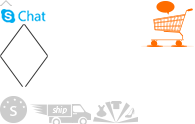
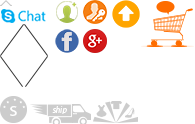
duy

Changed region(s): [[0.2769, 0.0, 0.7385, 0.2419], [0.2769, 0.2177, 0.5538, 0.4355]]

diff --git a/assets/frontend/css/site.css b/assets/frontend/css/site.css
@@ -17,7 +17,7 @@ a:hover,
 a:focus {
     outline: medium none;
     text-decoration: none;
-    color: #333;
+    color: #555;
 }
 /*Header*/
 .container {
@@ -40,15 +40,31 @@ a:focus {
     float: right;
 }
 .btnLog {
-    color: #666;
     display: inline-block;
-    font-size: 11px;
-    padding-left: 20px;
+    font-size: 12px;
+    padding-left: 12px;
+    vertical-align: top;
 }
 .btnLog:hover,
 .btnLog:focus,
 .btnLog:active {
     color: #ff7300;
+}
+.btnLog .register {
+    background: rgba(0, 0, 0, 0) url("../img/icon.png") no-repeat scroll -55px 1px;
+    display: inline-block;
+    height: 25px;
+    margin-right: 3px;
+    vertical-align: top;
+    width: 25px;
+}
+.btnLog .login {
+    background: rgba(0, 0, 0, 0) url("../img/icon.png") no-repeat scroll -82px 1px;
+    display: inline-block;
+    height: 25px;
+    margin-right: 3px;
+    vertical-align: top;
+    width: 25px;
 }
 .center-header {
     background: #fff none repeat scroll 0 0;
@@ -533,7 +549,7 @@ a:focus {
 /*Content*/
 #content {
     display: inline-block;
-    min-height: 300px;
+    min-height: 350px;
     width: 100%;
 }
 /*Footer*/
@@ -578,7 +594,7 @@ a:focus {
     color: #fff;
     margin-right: 10px;
     position: relative;
-    top: -4px;
+    top: 3px;
 }
 .midd-footer{
     display: inline-block;
@@ -621,30 +637,25 @@ a:focus {
     display: inline-block;
     font-style: italic;
 }
-.right-top-footer{
-    float: right;
+.right-top-footer {
     display: inline-block;
     float: right;
+    vertical-align: top;
 }
 .right-top-footer .icon-facebook {
-    background: #ddd none repeat scroll 0 0;
-    border-radius: 3px;
-    color: #222;
+    background: rgba(0, 0, 0, 0) url("../img/icon.png") no-repeat scroll -54px -28px;
     display: inline-block;
-    font-size: 20px;
     height: 25px;
+    margin-right: 3px;
+    vertical-align: top;
     width: 25px;
 }
-.right-top-footer .icon-facebook:hover{
-    background: #ccc;
-}
 .right-top-footer .icon-google-plus {
-    background: #ddd none repeat scroll 0 0;
-    border-radius: 3px;
-    color: #222;
+    background: rgba(0, 0, 0, 0) url("../img/icon.png") no-repeat scroll -82px -28px;
     display: inline-block;
-    font-size: 20px;
     height: 25px;
+    margin-right: 3px;
+    vertical-align: top;
     width: 25px;
 }
 .bg-icon-temviewer{
@@ -678,4 +689,16 @@ a:focus {
     font-style: italic;
     margin-top: 5px;
     padding: 5px;
+}
+.back-to-top {
+    background: rgba(0, 0, 0, 0) url("../img/icon.png") no-repeat scroll -108px 1px;
+    bottom: 5px;
+    display: inline-block;
+    height: 35px;
+    position: fixed;
+    right: 10px;
+    transition: all 1s ease 0s;
+    vertical-align: top;
+    width: 35px;
+    z-index: 99;
 }

diff --git a/assets/frontend/css/register.css b/assets/frontend/css/register.css
@@ -1,0 +1,111 @@
+/*Login*/
+.main-view-post {
+    display: inline-block;
+    min-height: 300px;
+    width: 100%;
+    padding-top: 20px;
+    padding-bottom: 100px;
+}
+.form-send-register {
+    margin: 0 auto;
+    width: 650px;
+}
+.form-send-register h1.title-head,
+.form-login h1.title-head {
+    display: inline-block;
+    font-size: 25px;
+    margin-bottom: 20px;
+    width: 100%;
+    text-align: left;
+    font-weight: normal;
+}
+.title-head span {
+    font-size: 22px;
+}
+.link-tab {
+    color: #555;
+    font-size: 18px;
+}
+.box-register .form-group {
+    display: inline-block;
+    margin-bottom: 5px;
+    width: 100%;
+}
+.box-register label {
+    display: inline-block;
+    float: left;
+    font-weight: normal;
+    margin-top: 5px;
+    width: 100%;
+    margin-bottom: 5px;
+}
+.control-label span {
+    color: #ff0000;
+}
+.box-register .form-control {
+    border-radius: 2px;
+    box-shadow: none;
+    display: inline-block;
+    float: left;
+    width: 100%;
+}
+.form-control {
+    background-color: #fff;
+    background-image: none;
+    border: 1px solid #ccc;
+    color: #555;
+    font-size: 14px;
+    height: 22px;
+    line-height: 1.42857;
+    padding: 5px;
+    transition: border-color 0.15s ease-in-out 0s, box-shadow 0.15s ease-in-out 0s;
+}
+.btn {
+    -moz-user-select: none;
+    background-image: none;
+    border-radius: 4px;
+    cursor: pointer;
+    display: inline-block;
+    font-size: 14px;
+    font-weight: normal;
+    line-height: 1.42857;
+    margin-bottom: 0;
+    padding: 6px 12px;
+    text-align: center;
+    vertical-align: middle;
+    white-space: nowrap;
+}
+.btn-primary {
+    background-color: #337ab7;
+    border-color: #2e6da4;
+    color: #fff;
+}
+.box-register .form-left-reg {
+    display: inline-block;
+    float: left;
+    margin-right: 10px;
+    width: 48%;
+}
+.box-register .form-right-reg {
+    display: inline-block;
+    float: right;
+    width: 45%;
+}
+select.form-control {
+    height: 34px;
+    line-height: 34px;
+    width: 305px !important;
+}
+.box-register .agree input {
+    float: left;
+     margin: 4px 5px 0 0;
+}
+.box-register .agree label {
+    display: inline-block;
+    float: left;
+    font-size: 13px;
+    font-style: italic;
+    font-weight: normal;
+    margin-top: 1px;
+    width: auto;
+}

diff --git a/assets/frontend/css/login.css b/assets/frontend/css/login.css
@@ -1,0 +1,95 @@
+/*Login*/
+.main-view-post {
+    display: inline-block;
+    min-height: 300px;
+    width: 100%;
+    padding-top: 20px;
+    padding-bottom: 100px;
+}
+.form-login {
+    margin: 0 auto;
+    width: 400px;
+}
+.form-send-register h1.title-head,
+.form-login h1.title-head {
+    display: inline-block;
+    font-size: 25px;
+    margin-bottom: 20px;
+    width: 100%;
+    text-align: left;
+    font-weight: normal;
+}
+.title-head span {
+    font-size: 22px;
+}
+.link-tab {
+    color: #555;
+    font-size: 18px;
+}
+.box-register .formSendLogin {
+    width: 305px;
+}
+.box-register .form-group {
+    display: inline-block;
+    margin-bottom: 5px;
+    width: 100%;
+}
+.box-register label {
+    display: inline-block;
+    float: left;
+    font-weight: normal;
+    margin-top: 5px;
+    width: 100%;
+    margin-bottom: 5px;
+}
+.control-label span {
+    color: #ff0000;
+}
+.box-register .form-control {
+    border-radius: 2px;
+    box-shadow: none;
+    display: inline-block;
+    float: left;
+    width: 100%;
+}
+.form-control {
+    background-color: #fff;
+    background-image: none;
+    border: 1px solid #ccc;
+    color: #555;
+    font-size: 14px;
+    height: 22px;
+    line-height: 1.42857;
+    padding: 5px;
+    transition: border-color 0.15s ease-in-out 0s, box-shadow 0.15s ease-in-out 0s;
+}
+.btn {
+    -moz-user-select: none;
+    background-image: none;
+    border-radius: 4px;
+    cursor: pointer;
+    display: inline-block;
+    font-size: 14px;
+    font-weight: normal;
+    line-height: 1.42857;
+    margin-bottom: 0;
+    padding: 6px 12px;
+    text-align: center;
+    vertical-align: middle;
+    white-space: nowrap;
+}
+.btn-primary {
+    background-color: #337ab7;
+    border-color: #2e6da4;
+    color: #fff;
+}
+.forgotpass {
+    color: #333;
+    display: inline-block;
+    font-style: italic;
+    margin-left: 10px;
+    margin-top: 2px;
+}
+.forgotpass:hover {
+    text-decoration: underline;
+}
